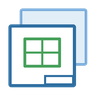
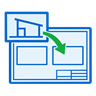
Разместить на листы: обновить иконку размещения видов

diff --git a/Memory.md b/Memory.md
@@ -453,6 +453,8 @@ pyRevit видит `lib/`).
   чипсами в одном окне. Файлы: `script.py` (Revit), `pp_place_window.py`
   (окно), `ui.xaml`, `pp_place_layout.py` (чистая геометрия раскладки, без
   Revit — проверяется обычным python). Имена листов — `lib/pp_sheet_naming.py`.
+  - Иконка: синий чертёжный лист с рамками видов и зелёной стрелкой размещения;
+    `icon.png`, 96×96, прозрачный фон.
   - **«Планы»**: FloorPlan/CeilingPlan/AreaPlan/EngineeringPlan — один план =
     один лист, по центру (так принято в проектах).
   - **«Виды»**: ThreeD/Section/Elevation/Detail/DraftingView — все отмеченные
